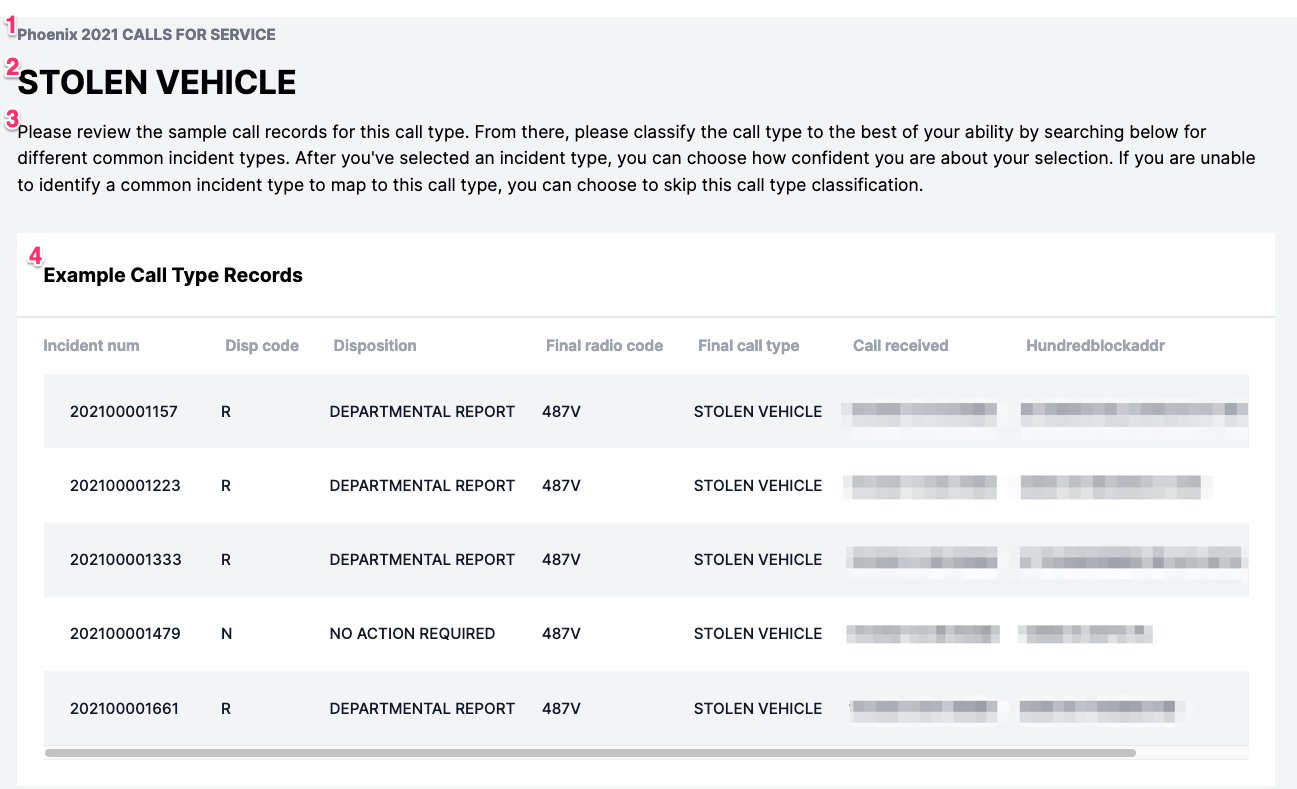
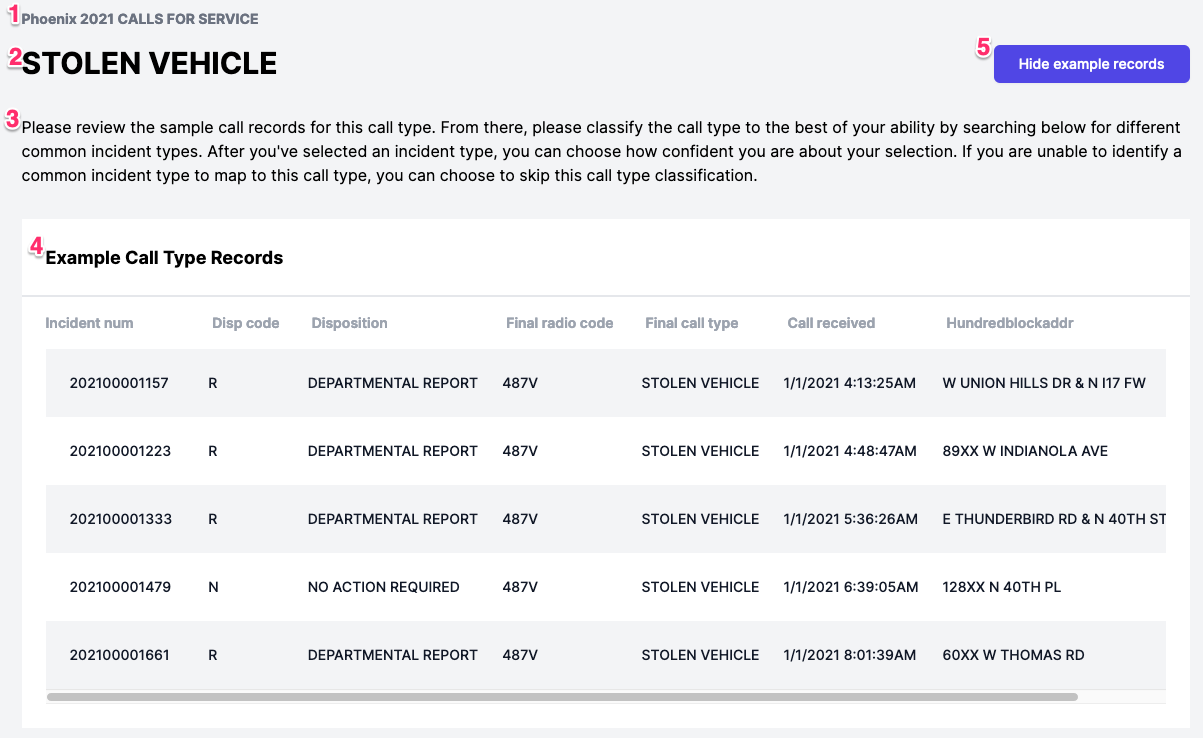
Allow show/hide of example records (default: hidden). (#132)

diff --git a/doc/data_classification.md b/doc/data_classification.md
@@ -26,6 +26,7 @@ classify:
 2. The value being classified
 3. Instructions for the classification process
 4. A set of example records with that value (default: 5)
+5. Show or hide the example records (hidden on page load)
 
 _Note: If you are the first user to classify a value, it may take a minute for
 the page to load while the examples are pulled from the source document._
